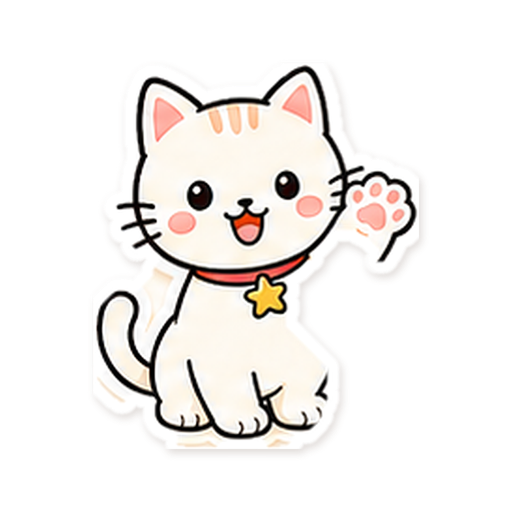
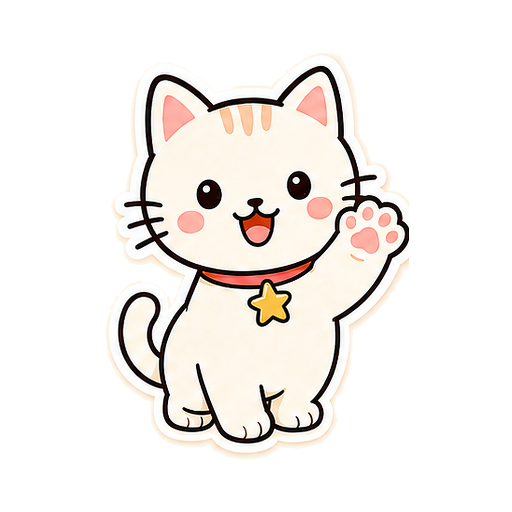
Polara v0.10.2: fix strip geometry and integrate Poca wave hotfix

Changed region(s): [[0.1875, 0.0938, 0.8438, 0.9062], [0.4688, 0.7188, 0.5, 0.75]]

diff --git a/index.html b/index.html
@@ -4,7 +4,24 @@
   <meta charset="UTF-8" />
   <meta name="viewport" content="width=device-width, initial-scale=1, viewport-fit=cover" />
   <meta name="theme-color" content="#ff8fbd" />
+  <meta name="description" content="Photobooth digital Polara untuk membuat strip dan foto ber-frame yang ceria langsung dari browser." />
   <title>Polara — Digital Photobooth</title>
+  <link rel="canonical" href="https://polara.vercel.app/" />
+  <meta property="og:type" content="website" />
+  <meta property="og:site_name" content="Polara" />
+  <meta property="og:title" content="Polara — Digital Photobooth" />
+  <meta property="og:description" content="Buat foto lucu, pilih frame, tambahkan stiker, lalu simpan atau bagikan hasilnya." />
+  <meta property="og:url" content="https://polara.vercel.app/" />
+  <meta property="og:image" content="https://polara.vercel.app/og-polara.png?v=2" />
+  <meta property="og:image:secure_url" content="https://polara.vercel.app/og-polara.png?v=2" />
+  <meta property="og:image:width" content="1200" />
+  <meta property="og:image:height" content="630" />
+  <meta property="og:image:alt" content="Polara Digital Photobooth dengan strip foto dan maskot Poca melambai" />
+  <meta name="twitter:card" content="summary_large_image" />
+  <meta name="twitter:title" content="Polara — Digital Photobooth" />
+  <meta name="twitter:description" content="Buat foto lucu, pilih frame, tambahkan stiker, lalu simpan atau bagikan hasilnya." />
+  <meta name="twitter:image" content="https://polara.vercel.app/og-polara.png?v=2" />
+  <meta name="twitter:image:alt" content="Polara Digital Photobooth dengan strip foto dan maskot Poca melambai" />
   <link rel="icon" href="/favicon.ico?v=3" sizes="any" />
   <link rel="icon" type="image/png" sizes="48x48" href="/favicon-48x48.png?v=3" />
   <link rel="icon" type="image/png" sizes="32x32" href="/favicon-32x32.png?v=3" />

diff --git a/src/core/compositor.js b/src/core/compositor.js
@@ -13,7 +13,8 @@ export function setPhotoSlot(canvasEl, slotNum, photo) {
     || canvasEl.querySelectorAll('.ph-slot')[slotNum - 1];
   if (!slot || !photo) return;
 
-  slot.style.position = 'relative';
+  const slotPosition = slot.ownerDocument.defaultView?.getComputedStyle(slot).position;
+  if (!slotPosition || slotPosition === 'static') slot.style.position = 'relative';
   slot.style.overflow = 'hidden';
   slot.querySelectorAll(':scope > .ph-photo').forEach((item) => item.remove());
   const image = document.createElement('img');
@@ -69,7 +70,12 @@ export async function exportPng(canvasEl, attempt = 1) {
       canvasHeight: height,
       pixelRatio: 1,
       cacheBust: false,
-      style: { transform: 'none', transformOrigin: 'top left' },
+      style: {
+        position: 'relative',
+        inset: 'auto',
+        transform: 'none',
+        transformOrigin: 'top left',
+      },
     });
   } catch (error) {
     if (attempt < 3) {

diff --git a/src/app.js b/src/app.js
@@ -535,8 +535,11 @@ function fitStage(dims) {
   const width = Math.max(260, refs.canvasView.clientWidth - 36);
   const height = Math.max(300, refs.canvasView.clientHeight - 34);
   const scale = Math.min(width / dims.w, height / dims.h, 1) || .35;
+  refs.stage.style.position = 'relative';
   refs.stage.style.width = `${Math.round(dims.w * scale)}px`;
   refs.stage.style.height = `${Math.round(dims.h * scale)}px`;
+  phCanvas.style.position = 'absolute';
+  phCanvas.style.inset = '0 auto auto 0';
   phCanvas.style.transformOrigin = 'top left';
   phCanvas.style.transform = `scale(${scale})`;
   phCanvas.dataset.displayScale = String(scale);

diff --git a/CHANGELOG.md b/CHANGELOG.md
@@ -5,6 +5,19 @@ Lihat aturan lengkap di `../../KONVENSI-VERSI.md`.
 
 ## [Unreleased]
 
+## [0.10.2] - 2026-08-08
+
+### Added
+- Tambahkan social preview 1200×630 beserta metadata Open Graph dan Twitter Card untuk halaman publik Polara.
+- Simpan master Poca Wave 1024×1024 secara lokal di pohon source aset yang di-ignore.
+
+### Changed
+- Ganti runtime Poca Wave dengan hotfix transparan 512×512 yang memulihkan lengan terangkat dan tetap terbaca pada ukuran kecil.
+- Posisikan kanvas preview di dalam panggung berskala tanpa membiarkan ukuran layout mentah menciptakan area scroll kosong.
+
+### Fixed
+- Pertahankan posisi absolut slot bawaan template saat foto dipasang, sehingga foto ketiga pada Poca Purikura Strip dan Seoul Snap Strip tidak lagi terpotong di luar kanvas.
+
 ## [0.10.1] - 2026-08-04
 
 ### Added
